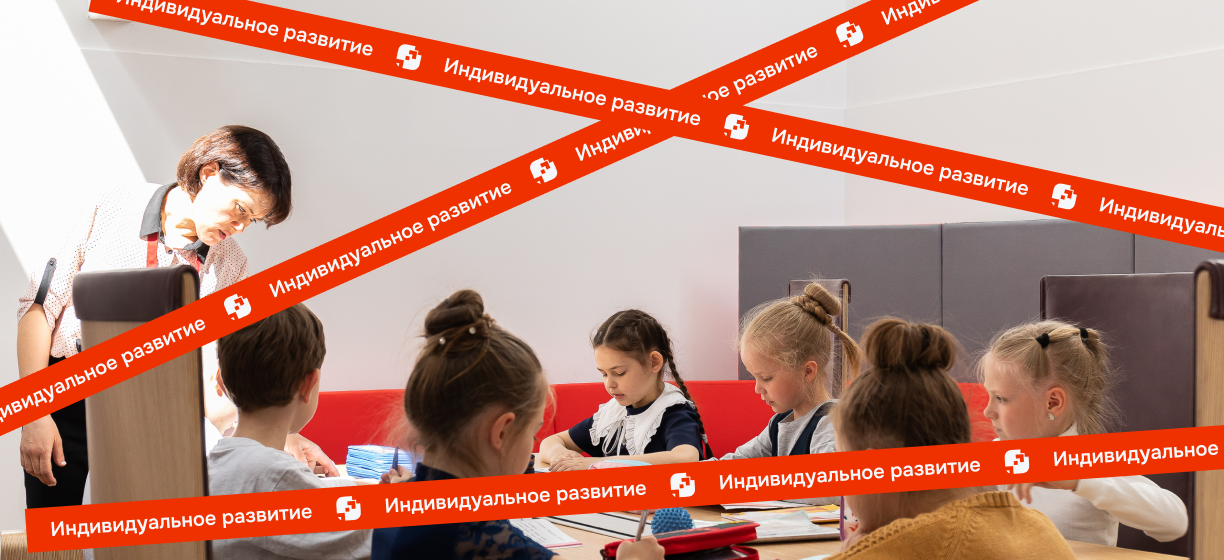
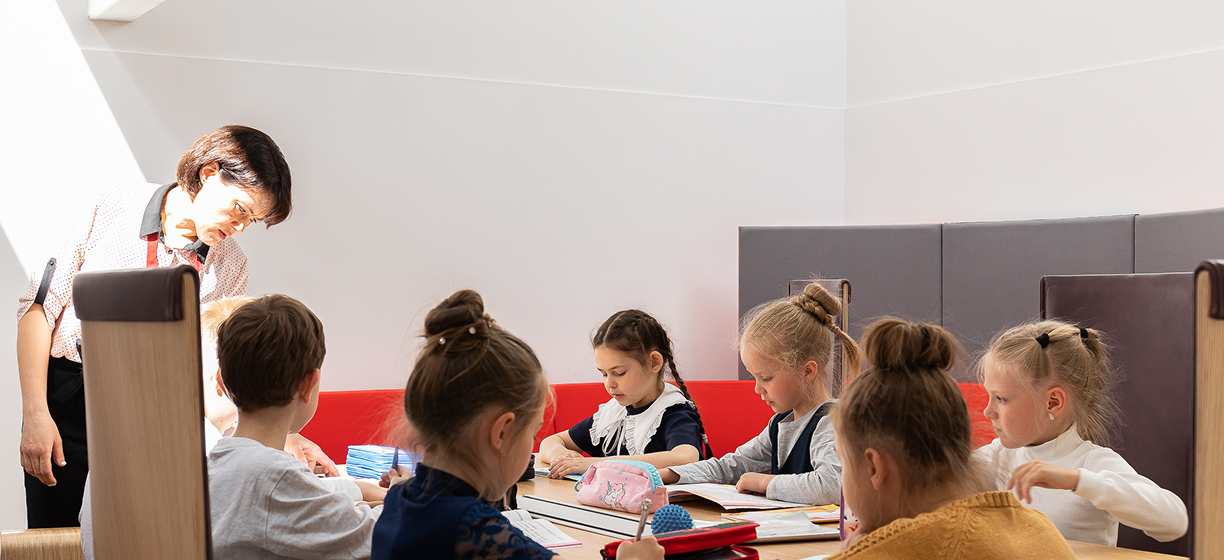
Индивидуальное развитие

diff --git a/src/styles/main.css b/src/styles/main.css
@@ -2636,6 +2636,7 @@ ul, ol {
   margin: 0 auto;
   min-width: 100%;
   box-shadow: 0 10px 30px rgba(0, 0, 0, 0.1);
+  position: relative;
 }
 
 .bottom-promo__image {
@@ -2644,7 +2645,101 @@ ul, ol {
   display: block;
 }
 
-/* Адаптивность для планшетов */
+/* Animated lines styles */
+.bottom-promo__lines {
+  position: absolute;
+  top: 0;
+  left: 0;
+  width: 210%;
+  height: 100%;
+  pointer-events: none;
+  z-index: 2;
+  overflow: hidden;
+}
+
+.bottom-promo__line {
+  position: absolute;
+  width: 100%;
+  height: 100%;
+  opacity: 1 
+;
+  display: flex;
+  align-items: center;
+  justify-content: center;
+}
+
+.bottom-promo__line img {
+  position: absolute;
+  width: 180%;
+  height: auto;
+  left: -40%;
+}
+
+.bottom-promo__line--1 {
+  top: 30%;
+  transform: rotate(-5deg);
+}
+
+.bottom-promo__line--1 img {
+  animation: lineMove1 10s ease-in-out infinite;
+}
+
+.bottom-promo__line--2 {
+  top: -10%;
+  transform: rotate(12deg);
+}
+
+.bottom-promo__line--2 img {
+  animation: lineMove1 10s ease-in-out infinite;
+}
+
+.bottom-promo__line--3 {
+  top: -80%;
+  transform: rotate(-24deg);
+}
+
+.bottom-promo__line--3 img {
+  animation: lineMove1 10s ease-in-out infinite;
+
+}
+
+@keyframes lineMove1 {
+  0% {
+    transform: translateX(0%);
+  }
+  50%{
+    transform: translateX(40%);
+  }
+  100% {
+    transform: translateX(0%);
+  }
+}
+
+@keyframes lineMove2 {
+  0% {
+    transform: translateX(0%);
+  }
+  50%{
+    transform: translateX(40%);
+  }
+  100% {
+    transform: translateX(0%);
+  }
+}
+
+@keyframes lineMove3 {
+  0% {
+    transform: translateX(0%);
+  }
+  50%{
+    transform: translateX(40%);
+  }
+  100% {
+    transform: translateX(0%);
+  }
+}
+
+/* Responsive adjustments for animated lines */
 @media (max-width: 1024px) {
   .bottom-promo {
     padding: 50px 0;

diff --git a/index.html b/index.html
@@ -522,6 +522,17 @@
             <div class="container">
                 <div class="bottom-promo__image-wrapper">
                     <img src="src/images/bottom-promo.png" alt="Bottom Promo" class="bottom-promo__image">
+                    <div class="bottom-promo__lines">
+                        <div class="bottom-promo__line bottom-promo__line--1">
+                            <img src="src/images/line.svg" alt="" aria-hidden="true">
+                        </div>
+                        <div class="bottom-promo__line bottom-promo__line--2">
+                            <img src="src/images/line.svg" alt="" aria-hidden="true">
+                        </div>
+                        <div class="bottom-promo__line bottom-promo__line--3">
+                            <img src="src/images/line.svg" alt="" aria-hidden="true">
+                        </div>
+                    </div>
                 </div>
             </div>
         </section>
